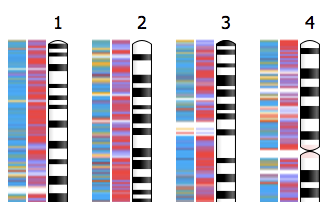
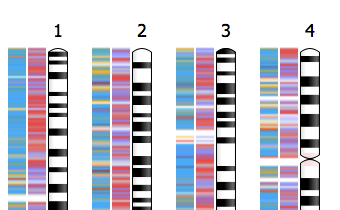
Improve example heatmap colors

diff --git a/examples/vanilla/annotations-heatmap.html b/examples/vanilla/annotations-heatmap.html
@@ -54,7 +54,7 @@
     heatmaps: [
       {
         key: 'expression-level',
-        thresholds: [['0', '#AAA'], ['3', '#88F'], ['+', '#F33']]
+        thresholds: [['2', '#88F'], ['4', '#CCC'], ['+', '#F33']]
       },
       {
         key: 'gene-type',
